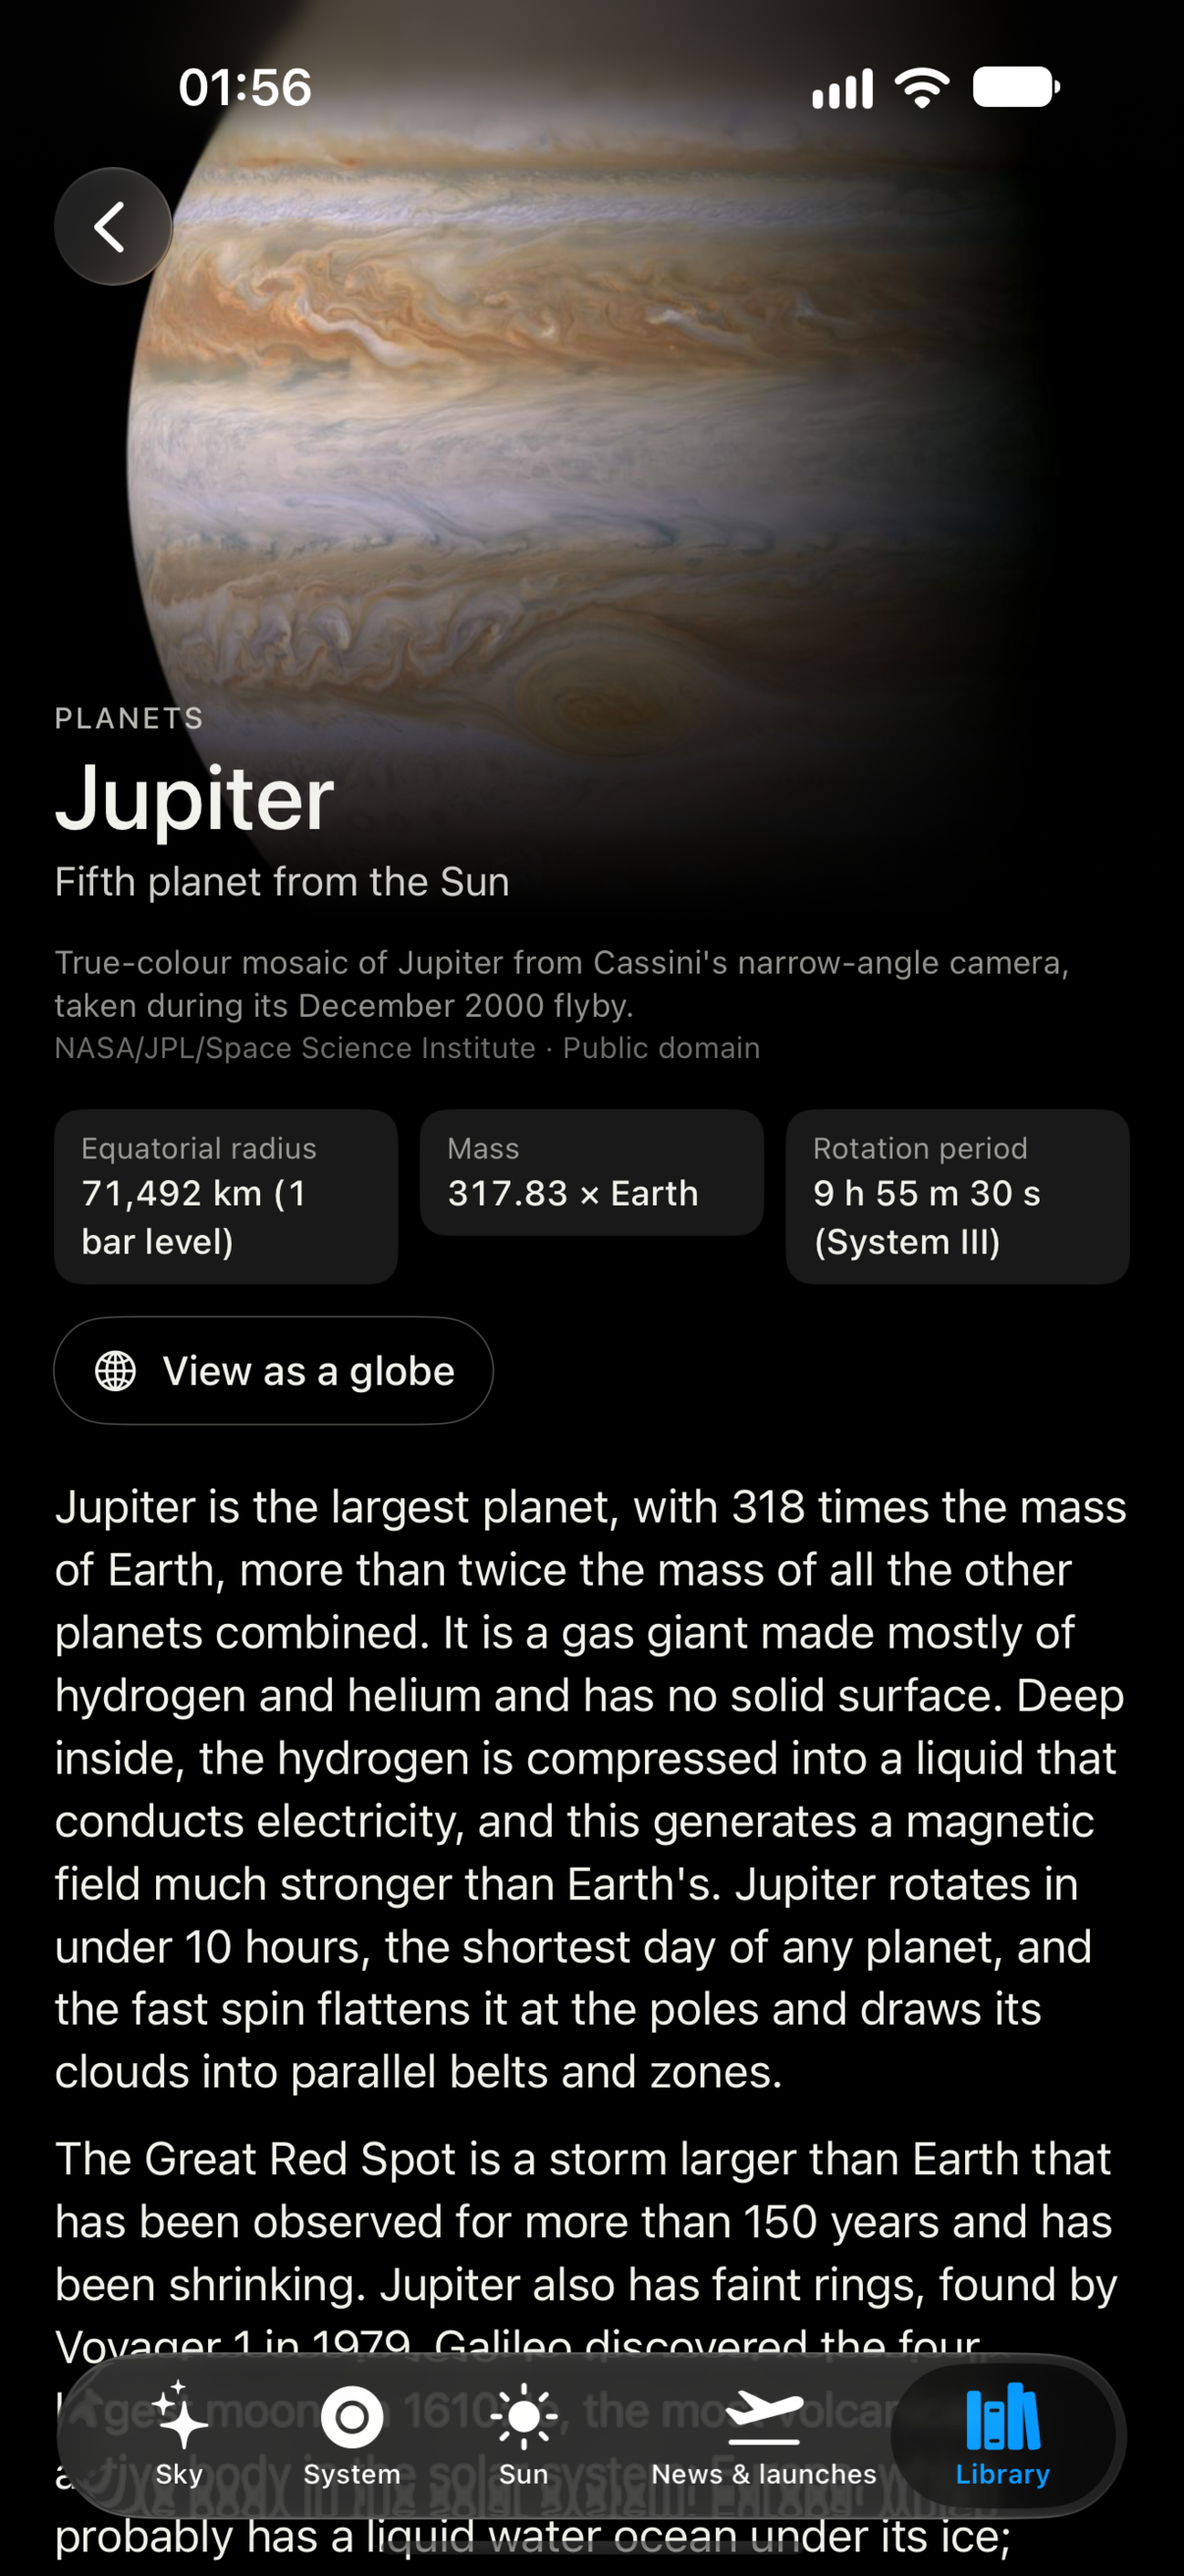
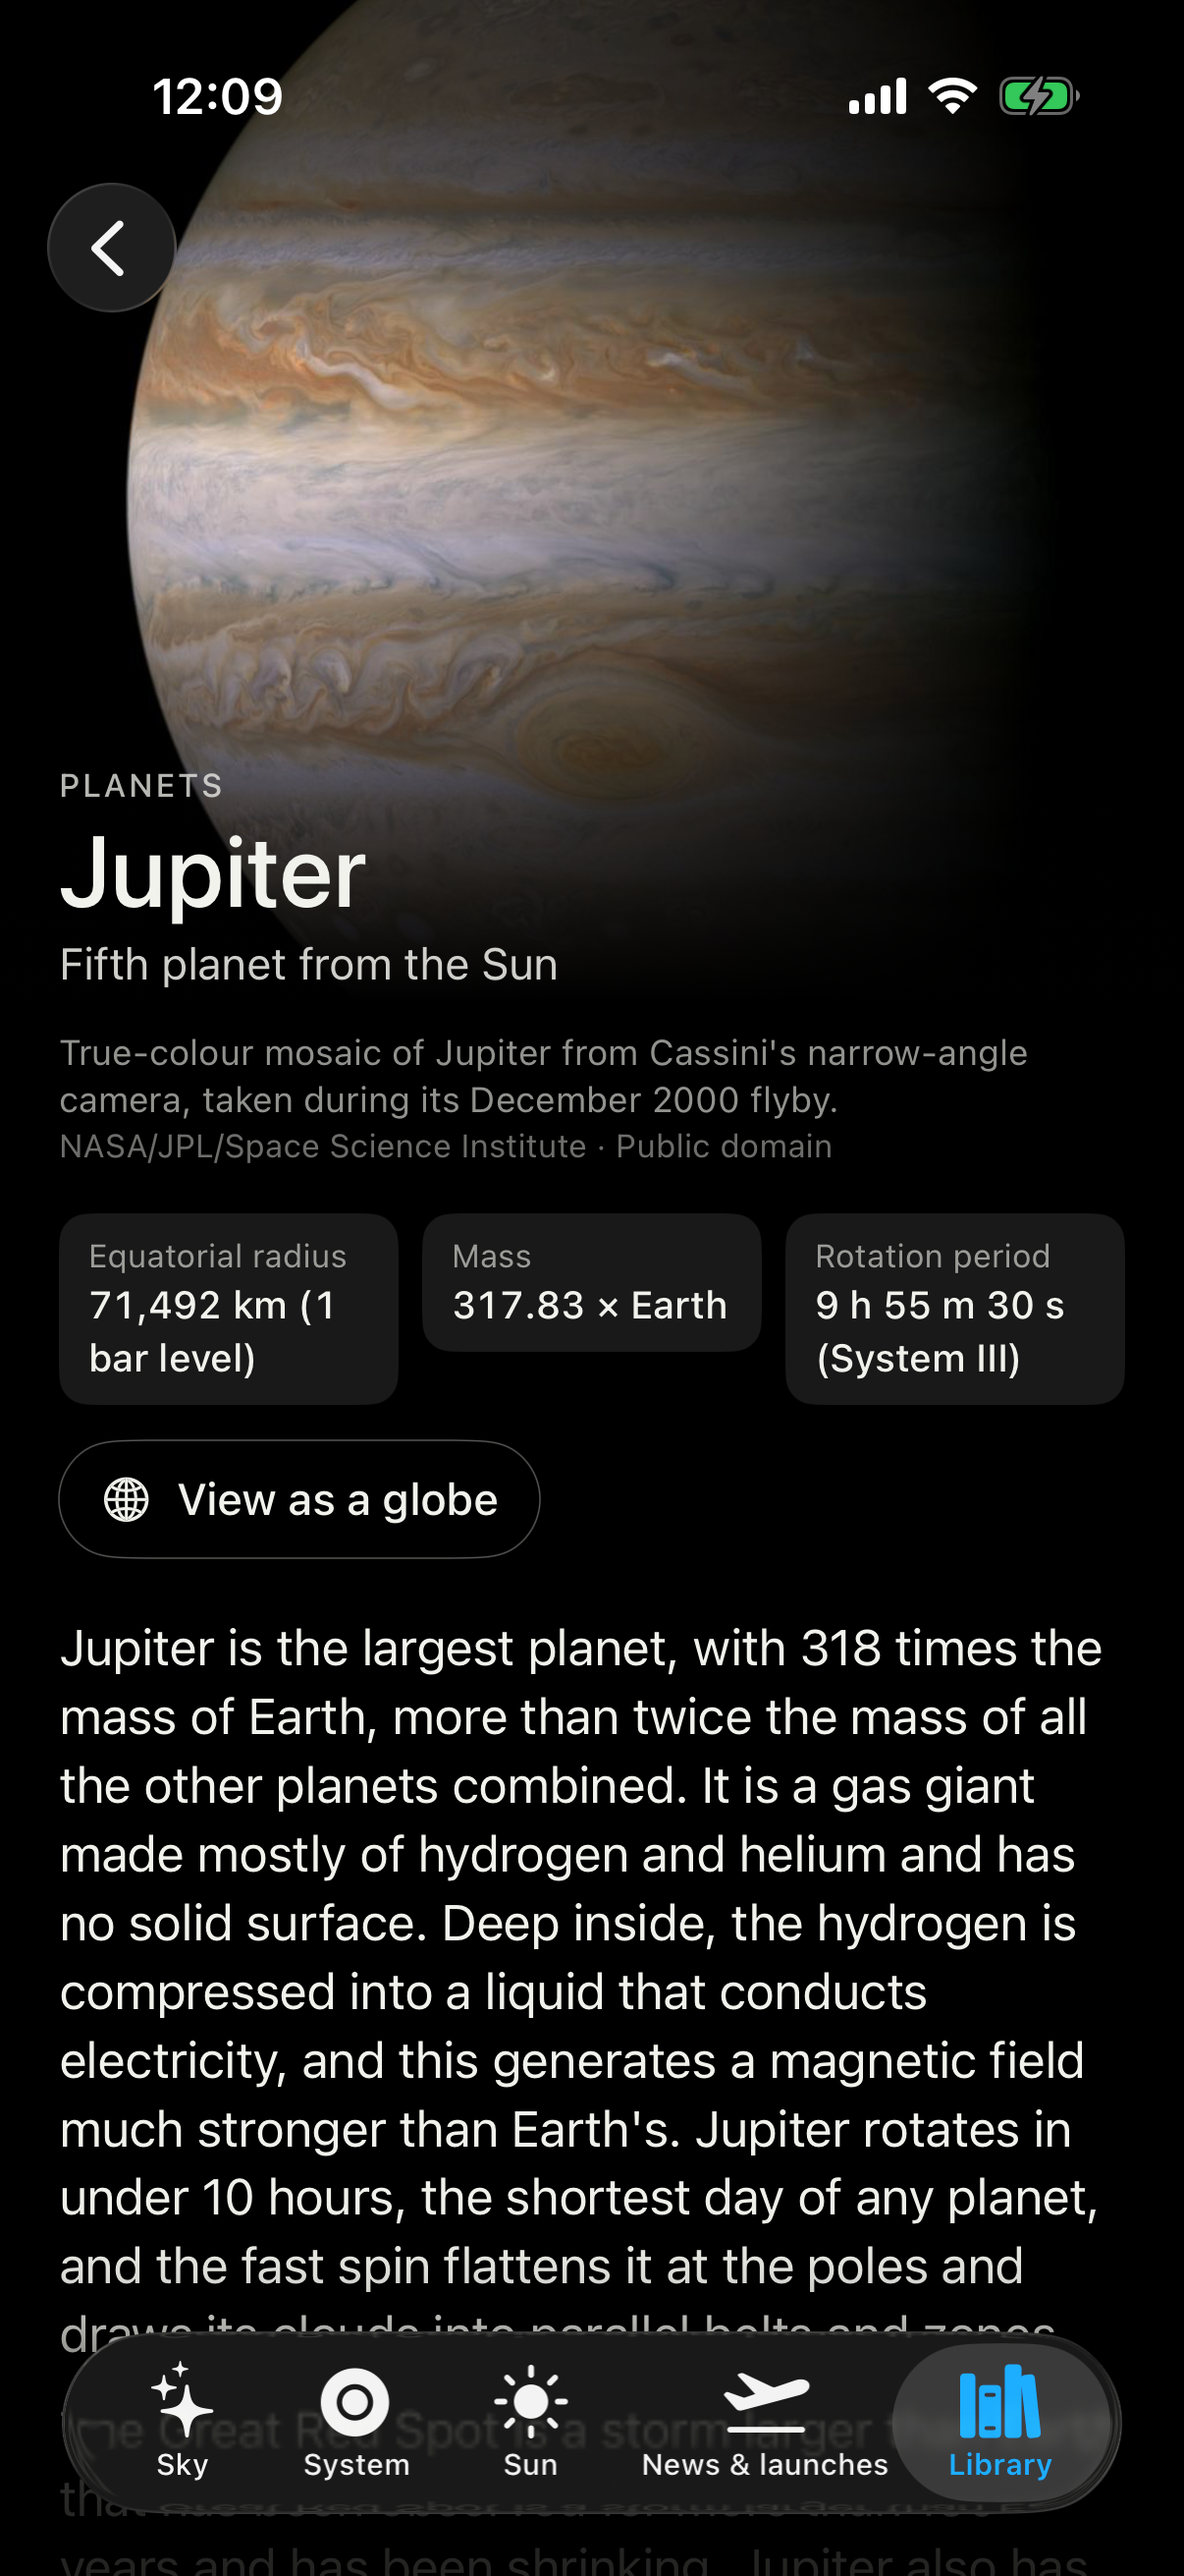
Screenshots for 5.8; labels that no longer overlap (!142)
- `App/UITests/ScreenshotTests.swift`: Denver, night mode off; Sky, Tonight, System map, 3D, Sun, launches, Library, Jupiter. Skipped unless `SCREENSHOT_DIR` is set:
  `TEST_RUNNER_SCREENSHOT_DIR=… xcodebuild test -configuration Release -only-testing:MoonriseUITests/ScreenshotTests`
- `App/AppStore/screenshots/iphone-6.3`, `iphone-6.9`, `header-21x9.png`, `header-16x9.png` redone. iPad and Watch sets unchanged.
- Fixes the captures showed:
  - `OrreryView`: labels placed after marks, planets first, overlapping ones skipped (Juno, Psyche, JUICE, Europa Clipper and Parker sat on each other).
  - `SolarSystem3D`: label collision by estimated text width (long comet designations overlapped).
  - `SunScreen`: region numbers above, else below, else omitted near the crowded limb.
  - `SystemScreen` intro no longer says "the five spacecraft".
- Status bar time could not be overridden (`simctl status_bar --time` rejects every format on this runtime), so it shows the capture time.

diff --git a/Packages/MoonriseKit/Sources/SkyRenderer/Orrery.swift b/Packages/MoonriseKit/Sources/SkyRenderer/Orrery.swift
@@ -111,6 +111,20 @@ public struct OrreryView: View {
             }
             context.fill(Path(ellipseIn: CGRect(x: c.x - 4, y: c.y - 4, width: 8, height: 8)), with: .color(Color(red: 0.95, green: 0.75, blue: 0.35)))
 
+            // Labels are placed after the marks, planets first, then spacecraft in file order; one that would
+            // overlap a placed label is left out (the list below the map names every craft).
+            var labels: [(text: GraphicsContext.ResolvedText, at: CGPoint, anchor: UnitPoint)] = []
+            var placed: [CGRect] = []
+            func label(_ text: Text, at point: CGPoint, anchor: UnitPoint) {
+                let t = context.resolve(text)
+                let size = t.measure(in: CGSize(width: 400, height: 100))
+                let rect = CGRect(x: point.x - anchor.x * size.width, y: point.y - anchor.y * size.height, width: size.width, height: size.height).insetBy(dx: -2, dy: -1)
+                guard !placed.contains(where: { $0.intersects(rect) }) else { return }
+                placed.append(rect)
+                labels.append((t, point, anchor))
+            }
+            var craftLabels: [(Text, CGPoint)] = []
+
             for craft in Spacecraft.all {
                 let path = craft.path(until: date)
                 guard let last = path.last else { continue }
@@ -121,9 +135,7 @@ public struct OrreryView: View {
                 context.stroke(line, with: .color(accent.opacity(faint ? 0.2 : 0.7)), lineWidth: faint ? 0.5 : 0.8)
                 let p = s.point(last)
                 context.fill(Path(ellipseIn: CGRect(x: p.x - 2.5, y: p.y - 2.5, width: 5, height: 5)), with: .color(accent.opacity(faint ? 0.3 : 1)))
-                if !faint {
-                    context.draw(Text(craft.name).font(.caption2).foregroundStyle(accent), at: CGPoint(x: p.x + 6, y: p.y), anchor: .leading)
-                }
+                if !faint { craftLabels.append((Text(craft.name).font(.caption2).foregroundStyle(accent), CGPoint(x: p.x + 6, y: p.y))) }
             }
 
             for body in [SolarBody.mercury, .venus, .mars, .jupiter, .saturn, .uranus, .neptune] {
@@ -132,9 +144,11 @@ public struct OrreryView: View {
                 let r: CGFloat = [.jupiter, .saturn].contains(body) ? 4 : 3
                 context.fill(Path(ellipseIn: CGRect(x: p.x - r, y: p.y - r, width: 2 * r, height: 2 * r)), with: .color(ink))
                 if [.jupiter, .saturn, .uranus, .neptune].contains(body) {
-                    context.draw(Text(body.rawValue.capitalized).font(.caption2).foregroundStyle(ink.opacity(0.8)), at: CGPoint(x: p.x, y: p.y + 10))
+                    label(Text(body.rawValue.capitalized).font(.caption2).foregroundStyle(ink.opacity(0.8)), at: CGPoint(x: p.x, y: p.y + 10), anchor: .center)
                 }
             }
+            for (text, p) in craftLabels { label(text, at: p, anchor: .leading) }
+            for l in labels { context.draw(l.text, at: l.at, anchor: l.anchor) }
             if let earth = try? SkyEngine.heliocentricEarth(at: date) {
                 let p = s.point(SIMD2(earth.x, earth.y))
                 context.fill(Path(ellipseIn: CGRect(x: p.x - 3, y: p.y - 3, width: 6, height: 6)), with: .color(Color(red: 0.35, green: 0.6, blue: 0.95)))

diff --git a/App/UITests/ScreenshotTests.swift b/App/UITests/ScreenshotTests.swift
@@ -1,0 +1,50 @@
+import XCTest
+
+/// Captures the App Store and website screenshots from Denver, night mode off. Saved as PNGs to the folder in
+/// SCREENSHOT_DIR (pass TEST_RUNNER_SCREENSHOT_DIR to xcodebuild); skipped without it.
+final class ScreenshotTests: XCTestCase {
+    var app: XCUIApplication!
+    var folder: URL!
+
+    override func setUpWithError() throws {
+        guard let dir = ProcessInfo.processInfo.environment["SCREENSHOT_DIR"] else { throw XCTSkip("SCREENSHOT_DIR not set") }
+        folder = URL(fileURLWithPath: dir)
+        try FileManager.default.createDirectory(at: folder, withIntermediateDirectories: true)
+        app = XCUIApplication()
+        app.launchArguments += ["-onboarded", "YES", "-locationMode", "city", "-cityName", "Denver",
+                                "-cityLatitude", "39.7392", "-cityLongitude", "-104.9903", "-nightMode", "off"]
+        app.launch()
+    }
+
+    private func shoot(_ name: String, wait: UInt32 = 3) throws {
+        sleep(wait)
+        try XCUIScreen.main.screenshot().pngRepresentation.write(to: folder.appending(path: "\(name).png"))
+    }
+
+    private func tab(_ name: String) {
+        app.tabBars.buttons[name].firstMatch.tap()
+    }
+
+    func testScreenshots() throws {
+        try shoot("01-sky", wait: 6)
+        app.buttons.matching(NSPredicate(format: "label BEGINSWITH 'Moon'")).firstMatch.tap()
+        try shoot("02-tonight")
+        app.swipeDown(velocity: .fast)
+        sleep(1)
+        tab("System")
+        app.buttons["Map"].firstMatch.tap()
+        try shoot("03-system", wait: 4)
+        app.buttons["3D"].firstMatch.tap()
+        try shoot("04-3d", wait: 5)
+        tab("Sun")
+        try shoot("05-sun", wait: 8)
+        tab("News & launches")
+        try shoot("06-launches", wait: 5)
+        tab("Library")
+        try shoot("07-library", wait: 3)
+        app.buttons["See all Planets"].firstMatch.tap()
+        sleep(1)
+        app.staticTexts["Jupiter"].firstMatch.tap()
+        try shoot("08-jupiter", wait: 3)
+    }
+}

diff --git a/App/Sources/SunScreen.swift b/App/Sources/SunScreen.swift
@@ -217,16 +217,34 @@ struct SunScreen: View {
     private func regionOverlay(at date: Date) -> some View {
         GeometryReader { g in
             let r = wavelength.diskRadius * g.size.width
-            ForEach(regions) { region in
-                if let p = region.disk(at: date) {
-                    Text(String(region.number))
-                        .font(.system(size: 10, weight: .medium)).monospacedDigit()
-                        .foregroundStyle(.white).shadow(color: .black, radius: 2)
-                        .position(x: g.size.width / 2 + p.x * r, y: g.size.height / 2 - p.y * r - 10)
-                }
+            ForEach(regionLabelPoints(at: date, size: g.size, radius: r), id: \.number) { l in
+                Text(String(l.number))
+                    .font(.system(size: 10, weight: .medium)).monospacedDigit()
+                    .foregroundStyle(.white).shadow(color: .black, radius: 2)
+                    .position(l.point)
             }
         }
         .accessibilityHidden(true)
+    }
+
+    /// A label above each region, else below it; left out where both would overlap a label already placed
+    /// (regions crowd together near the limb).
+    private func regionLabelPoints(at date: Date, size: CGSize, radius r: CGFloat) -> [(number: Int, point: CGPoint)] {
+        var placed: [CGRect] = []
+        var out: [(number: Int, point: CGPoint)] = []
+        for region in regions {
+            guard let p = region.disk(at: date) else { continue }
+            let x = size.width / 2 + p.x * r, y = size.height / 2 - p.y * r
+            for dy: CGFloat in [-10, 10] {
+                let box = CGRect(x: x - 15, y: y + dy - 7, width: 30, height: 14)
+                if !placed.contains(where: { $0.intersects(box) }) {
+                    placed.append(box)
+                    out.append((region.number, CGPoint(x: x, y: y + dy)))
+                    break
+                }
+            }
+        }
+        return out
     }
 
     /// Three columns, stacked at accessibility text sizes.

diff --git a/App/Sources/SolarSystem3D.swift b/App/Sources/SolarSystem3D.swift
@@ -757,7 +757,7 @@ struct SolarSystem3DView: View {
             case .moon: 50
             }
         }
-        var placed: [CGPoint] = []
+        var placed: [CGRect] = []
         let points = screenPoints(size: size)
         // Anything whose centre falls on the disc of a nearer body is hidden behind it.
         let discs = points.filter { $0.radius > 4 }.map { ($0.point, $0.radius, cam.distance(to: $0.marker.scene)) }
@@ -769,8 +769,11 @@ struct SolarSystem3DView: View {
             .sorted { rank($0.marker) < rank($1.marker) }
             .map { item in
                 let at = CGPoint(x: item.point.x, y: item.point.y - max(item.radius, 5) - 9)
-                let clear = item.marker.id == selected || placed.allSatisfy { abs($0.x - at.x) > 48 || abs($0.y - at.y) > 14 }
-                if clear { placed.append(at) }
+                // caption2 runs about 6 pt a character; a little padding keeps neighbours readable.
+                let width = CGFloat(item.marker.name.count) * 6 + 8
+                let box = CGRect(x: at.x - width / 2, y: at.y - 8, width: width, height: 16)
+                let clear = item.marker.id == selected || !placed.contains { $0.intersects(box) }
+                if clear { placed.append(box) }
                 return (item.marker, item.point, item.radius, clear)
             }
     }

diff --git a/App/Sources/SystemScreen.swift b/App/Sources/SystemScreen.swift
@@ -99,7 +99,7 @@ struct SystemScreen: View {
             VStack(alignment: .leading, spacing: 0) {
                 Text("Solar system").font(.title.weight(.medium))
                 Rectangle().fill(accent).frame(width: 48, height: 5).padding(.top, 8).padding(.bottom, 12)
-                Text("The planets, and the five spacecraft travelling out of the solar system, seen from above. Drag the slider or press play to watch them move between 1958 and 2050.")
+                Text("The planets and spacecraft, seen from above: the five probes leaving the solar system and the missions at work today. Drag the slider or press play to watch them move between 1958 and 2050.")
                     .font(.subheadline).dimmed(0.75).padding(.bottom, 12)
                 modePicker.padding(.bottom, 16)
 
